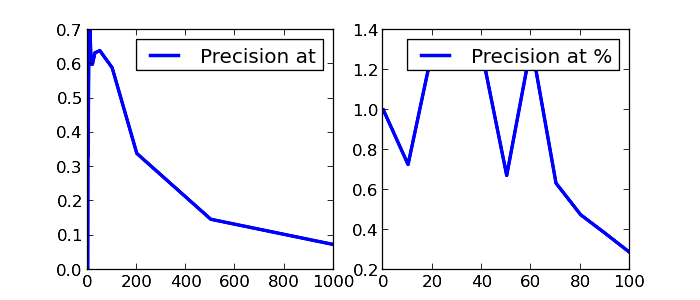
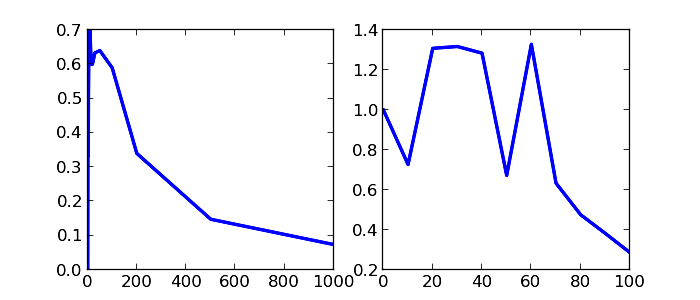
added more search functionality

Changed region(s): [[0.57, 0.12, 0.9, 0.24], [0.18, 0.12, 0.48, 0.24]]

diff --git a/irsysweb/query/functions.py b/irsysweb/query/functions.py
@@ -314,10 +314,10 @@ def chart_results(qid):
       fig = figure()
       ax1 = fig.add_subplot(1,2,1)
       ax1.plot(precx,precy ,color="blue", linewidth=2.5, linestyle="-" ,label="Precision at")
-      ax1.legend(loc='upper right')
+      ##ax1.legend(loc='best')
       ax2 = fig.add_subplot(1,2,2)
       ax2.plot(pprecx,pprecy ,color="blue", linewidth=2.5, linestyle="-" ,label="Precision at %")
-      ax2.legend(loc='upper right')
+      ##ax2.legend(loc='best')
       fig.savefig("/home/stathis/Projects/UVA_IR/results/"+str(qid)+'.png' ,transparent=True)
       fig.savefig("/home/stathis/Projects/UVA_IR/irsysweb/query/static/"+str(qid)+'.png' ,transparent=True)
       results["path"] ="/static/"+str(qid)+'.png'

diff --git a/irsysweb/query/views.py b/irsysweb/query/views.py
@@ -25,7 +25,7 @@ def home(request):
 		welcome_text = "IRSYS is end to end information retrieval system made for the course IR at the University of Amsterdam by Stathis, Jay and Johan. Input and run a Query on the top right corner to see some results!"
 		d = {"start" : {"title" : title , "welcome_text" : welcome_text }}
 	elif option == "predefined":
-		results = chart_results(6)
+		results = chart_results(qid)
 		title = "Results for Predefined Query '" + "sustainable ecosystems" +"' :"
 		d = {"results": {"title": title , "results" : results}}
 	elif option=="query":
